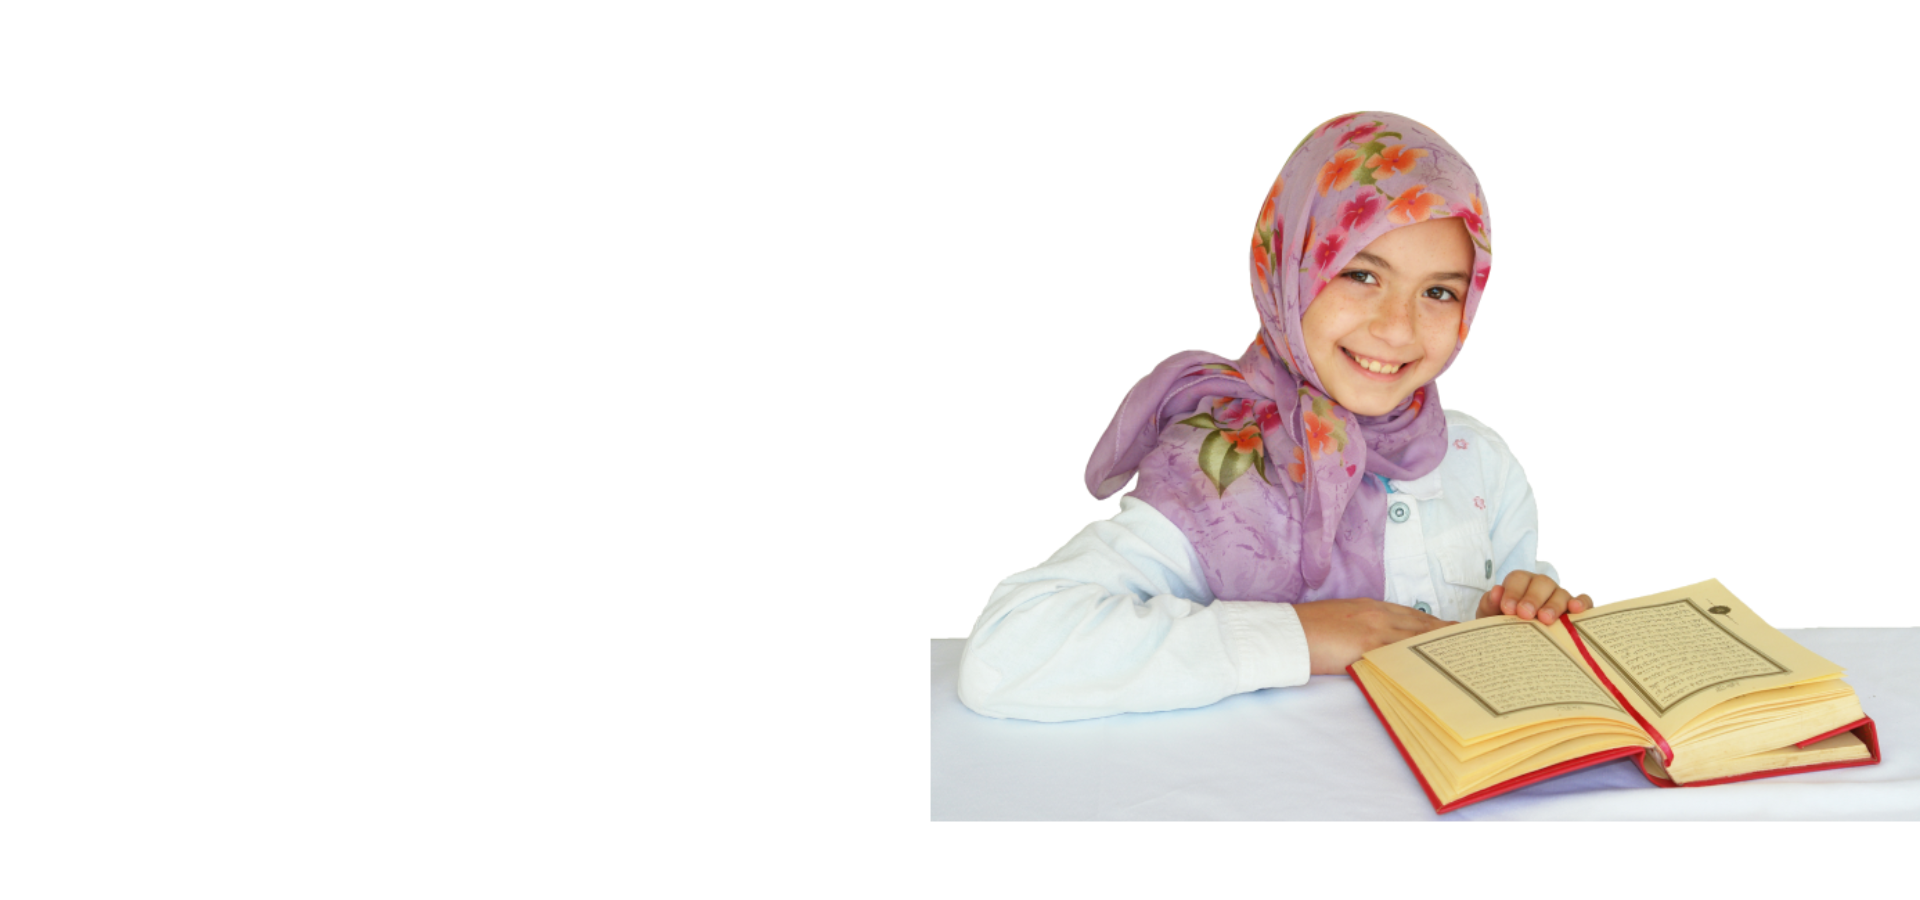
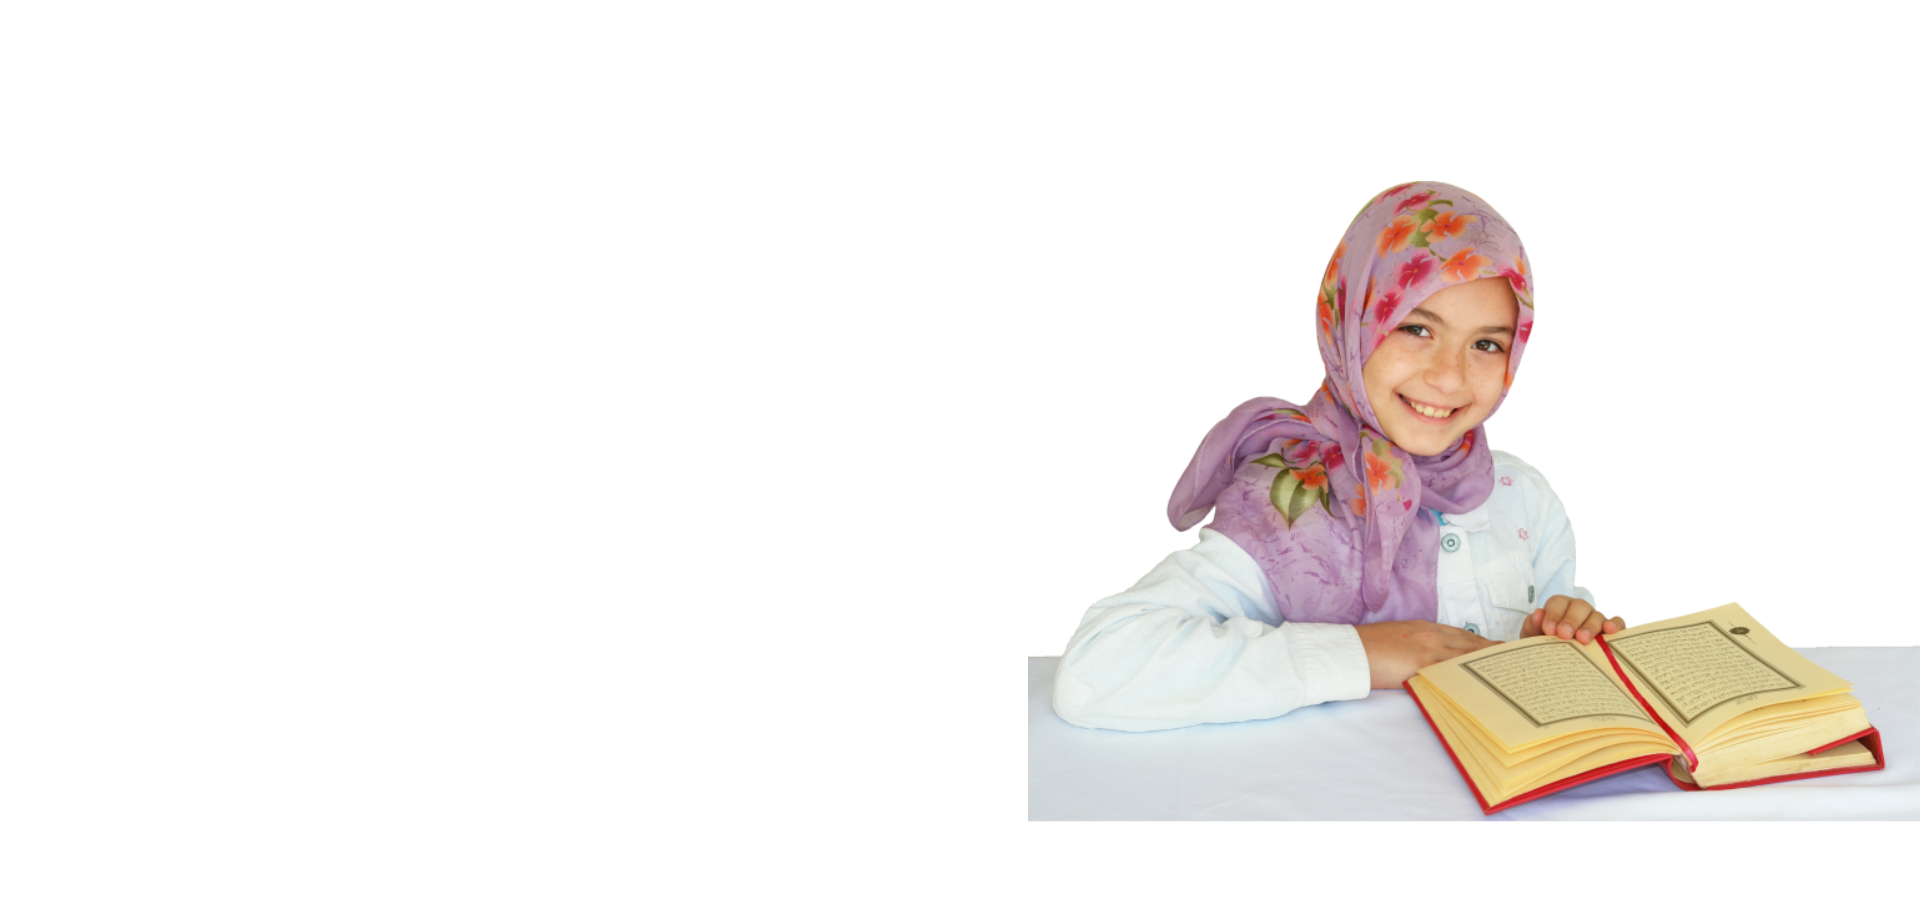
update

Changed region(s): [[0.4688, 0.1244, 1.0, 0.9333]]

diff --git a/src/components/vacancies/breadcrumbVacancies.js b/src/components/vacancies/breadcrumbVacancies.js
@@ -3,7 +3,7 @@ import React from 'react';
 
 const Breadcrumb = ({ breadcrumbTitle, breadcrumbSubTitle }) => {
     return (
-        <div className="hero-arera course-item-height" style={{ backgroundImage: "url(/assets/img/slider/vacancies-slider.svg)" }}>
+        <div className="hero-arera course-item-height" style={{ backgroundImage: "url(/assets/img/slider/vacancy-slider.png)" }}>
             <div className="container">
                 <div className="row">
                     <div className="col-xl-12">
